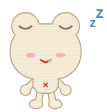
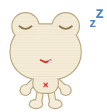
Kibbles: drop the cheek blush
Claude-Session: https://claude.ai/code/session_01JtoWSS4hHwE8T4PegbGPHs

Changed region(s): [[0.5047, 0.4554, 0.6168, 0.5357], [0.2243, 0.4554, 0.3364, 0.5357]]

diff --git a/hooks/mascot.ts b/hooks/mascot.ts
@@ -111,14 +111,9 @@ function sweat(animated: boolean): string {
 }
 
 // --- mood cues, the same in every pose -------------------------------------
-// Happy (under 50% weekly): a floating note or heart, rosy cheeks, no sweat.
+// Happy (under 50% weekly): a floating note or heart, no sweat.
 // Neutral (50-80%): the plain look. Worried (over 80%): blue worry lines on
-// the forehead, red flushed cheeks, furrowed brows and sweat.
-
-function cheeks(mood: Mood): string {
-  const [fill, op, rx] = mood === 'worried' ? ['#ff5a5a', 0.6, 6] : mood === 'happy' ? ['#f48fb1', 0.6, 5.5] : ['#f4a7b4', 0.35, 5]
-  return [33, 67].map(x => `<ellipse cx="${x}" cy="55" rx="${rx}" ry="2.8" fill="${fill}" fill-opacity="${op}"/>`).join('')
-}
+// the forehead, furrowed brows and sweat.
 
 /** Manga worry lines on the forehead, between the eye bumps. */
 function gloom(animated: boolean): string {
@@ -317,7 +312,7 @@ function sleep(mood: Mood, animated: boolean, frame: number): string {
   return (
     `<g>${restless}` +
     legs() +
-    `<g>${breathe}${arms}${silhouette()}${eyes}${cheeks(mood)}${mood === 'worried' ? brows + gloom(animated) : ''}` +
+    `<g>${breathe}${arms}${silhouette()}${eyes}${mood === 'worried' ? brows + gloom(animated) : ''}` +
     `${sleepMouth(mood, animated, frame)}${belly}${bubble}${pop}</g></g>` +
     z(0) +
     z(1) +
@@ -371,7 +366,6 @@ function wait(mood: Mood, animated: boolean, frame: number): string {
     waveArm +
     silhouette() +
     eyes +
-    cheeks(mood) +
     (mood === 'worried' ? brows + gloom(animated) : '') +
     mouth +
     belly +

diff --git a/README.md b/README.md
@@ -127,9 +127,9 @@ Kibbles' mood follows your weekly usage, and each mood looks clearly different:
 
 | Weekly usage | Working | Waiting for you | Napping |
 |---|---|---|---|
-| **Under 50%**: happy | A green ♪ floats up; relaxed typing; slow spin; no sweat | Open smile, yellow "!" | Smiling, rosy cheeks, a pink ♥ floats up |
+| **Under 50%**: happy | A green ♪ floats up; relaxed typing; slow spin; no sweat | Open smile, yellow "!" | Smiling, a pink ♥ floats up |
 | **50–80%**: neutral | One sweat drop; normal typing | Little "o" mouth, yellow "!" | Calm, straight mouth |
-| **Over 80%**: worried | Blue worry lines, steam puffing off its head, three sweat drops, frantic typing, nervous jitter, eyes spinning backwards | Worry lines, furrowed brows, red cheeks, wobbly frown, sweat, red "!!" | Worry lines, furrowed brows, red cheeks, sweat, tossing and turning |
+| **Over 80%**: worried | Blue worry lines, steam puffing off its head, three sweat drops, frantic typing, nervous jitter, eyes spinning backwards | Worry lines, furrowed brows, wobbly frown, sweat, red "!!" | Worry lines, furrowed brows, sweat, tossing and turning |
 
 ## Install
 
